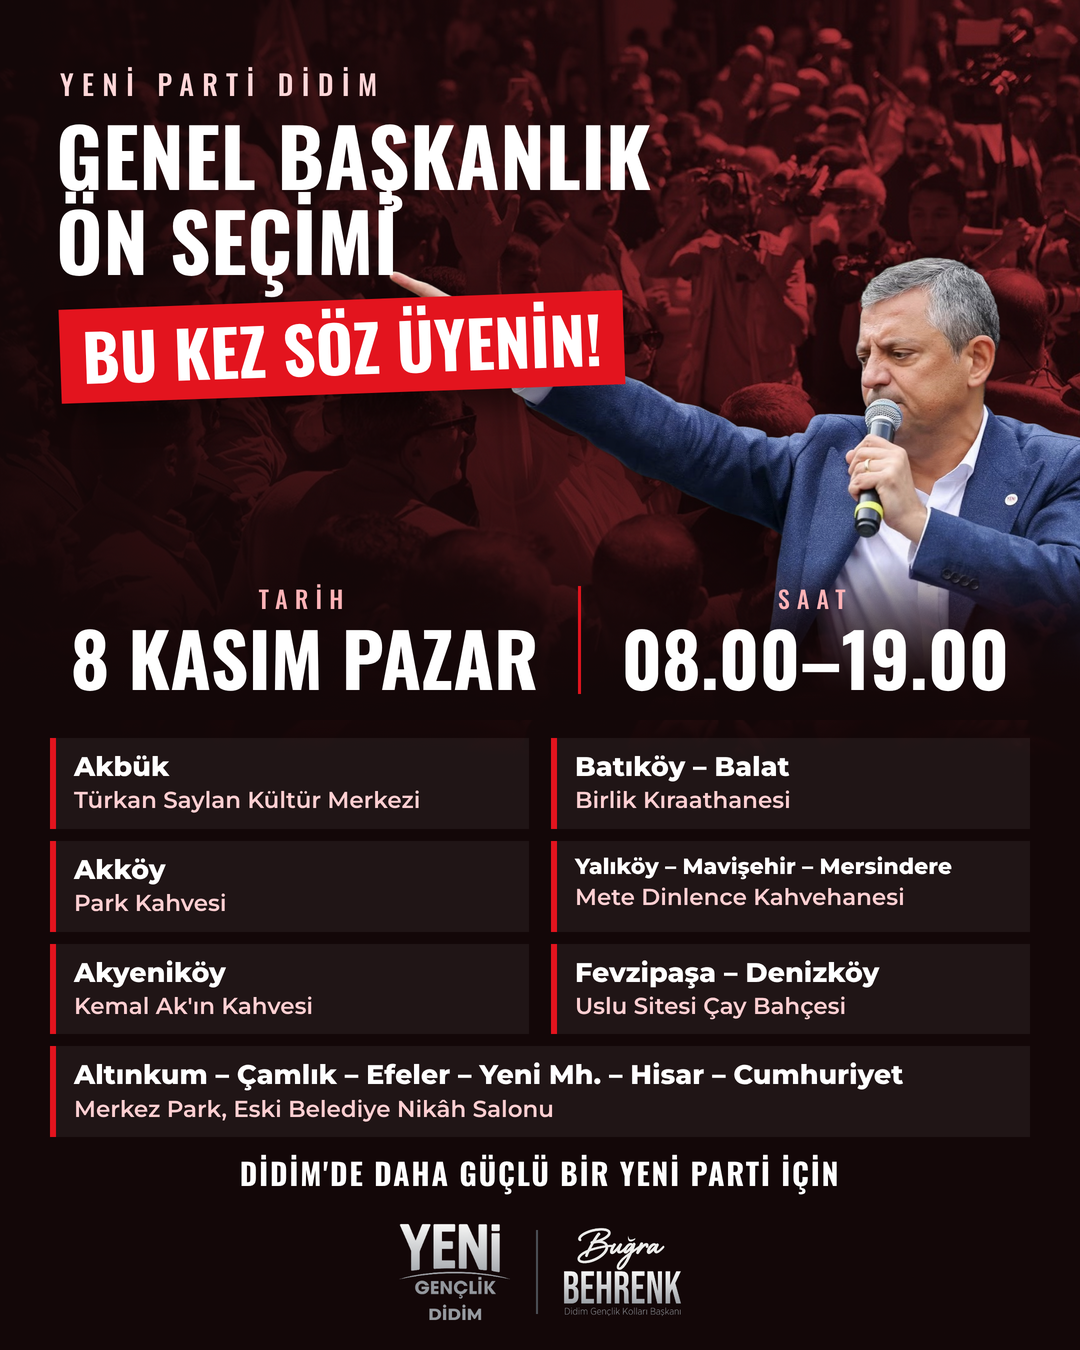
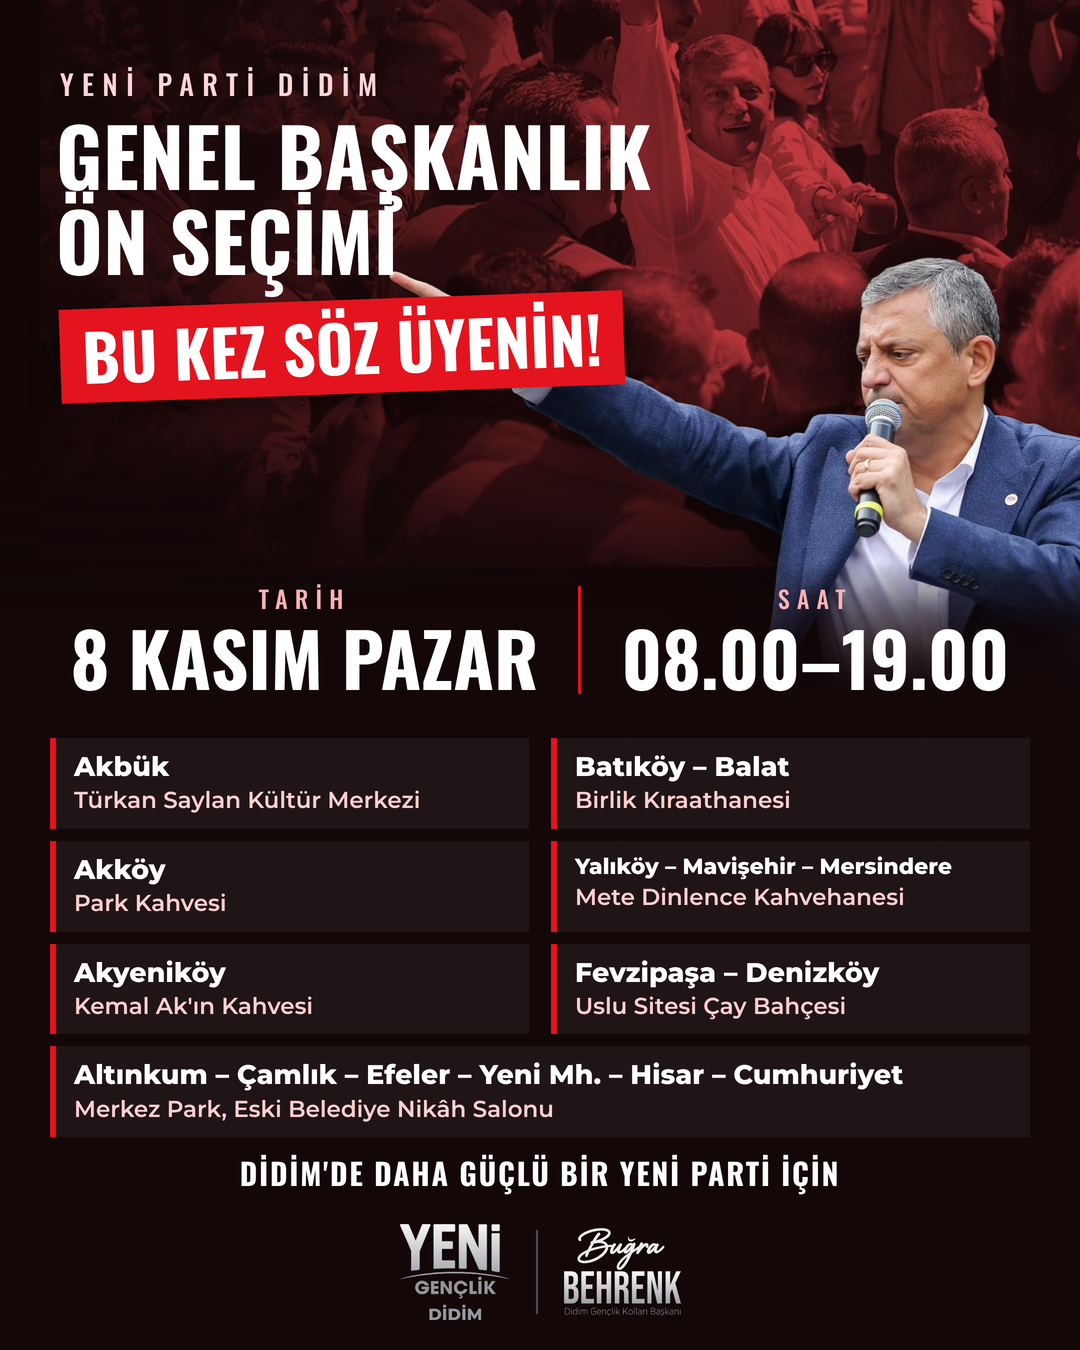
Ön seçim afişi: arka plandaki Özgür Özel kolun üstünde görünür
Claude-Session: https://claude.ai/code/session_01SatttGbgBLoCnk9KGLypWv

diff --git a/tasarim/kisisel/on-secim/onsecim.html b/tasarim/kisisel/on-secim/onsecim.html
@@ -6,8 +6,8 @@
 @font-face{font-family:M6;src:url(../../fontlar-gecici/Montserrat-600.ttf)}
 :root{--k:#E3141E}
 html,body{margin:0;width:1080px;height:1350px;overflow:hidden;background:#120607;color:#fff}
-.bg{position:absolute;left:0;top:0;width:1080px;height:760px;background:url(kalabalik-kirmizi.jpg) 40% 30%/auto 820px no-repeat;opacity:.85}
-.bg::after{content:"";position:absolute;inset:0;background:linear-gradient(90deg,rgba(18,6,7,.92) 0%,rgba(18,6,7,.55) 45%,rgba(18,6,7,.1) 75%),linear-gradient(180deg,rgba(18,6,7,0) 55%,#120607 100%)}
+.bg{position:absolute;left:0;top:0;width:1080px;height:760px;-webkit-mask:linear-gradient(180deg,#000 0,#000 55%,transparent 80%);background:url(kalabalik-kirmizi.jpg) 40px -330px/1360px auto no-repeat;opacity:.85}
+.bg::after{content:"";position:absolute;inset:0;background:linear-gradient(90deg,rgba(18,6,7,.92) 0%,rgba(18,6,7,.6) 38%,rgba(18,6,7,.05) 62%),linear-gradient(180deg,rgba(18,6,7,0) 55%,#120607 100%)}
 .gren{position:absolute;inset:0;opacity:.14;mix-blend-mode:overlay}
 .ozel{position:absolute;left:380px;top:236px;width:740px;-webkit-mask:linear-gradient(180deg,#000 0,#000 66%,transparent 92%);filter:drop-shadow(0 20px 40px rgba(0,0,0,.6))}
 .ozel-fade{position:absolute;left:0;right:0;top:560px;height:160px;background:linear-gradient(180deg,rgba(18,6,7,0),#120607)}
